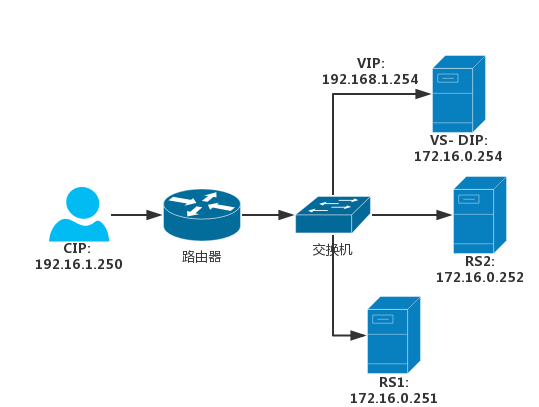
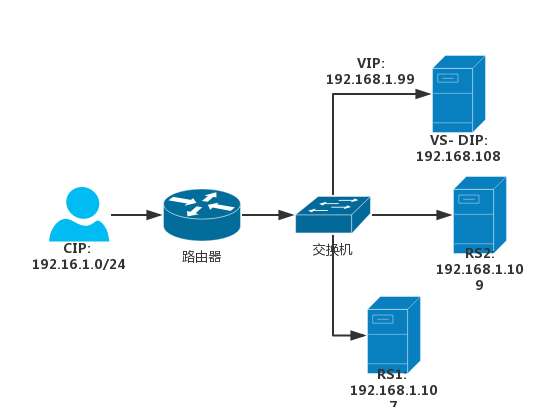
dr 模型搭建

diff --git a/27-LVS4层负载均衡/LVS4_DR模型.md b/27-LVS4层负载均衡/LVS4_DR模型.md
@@ -1,89 +1,69 @@
 # 27.5 LVS DR模型实战
-
+本节我们将搭建一个 LVS-DR 的负载均衡集群。
 ## 1. 网络拓扑结构
 ![web_fram](../images/27/lvs-dr-frame.png)
 
+拓扑结构说明:
+- VS， RS1， RS2 在虚拟机内均采用桥接方式，桥接到物理机的网卡上
+- VIP 配置在 DIP 所在网卡的别名上
+
 ## 2. lvs-dr 配置示例
-```bash
-# 1. 配置RS
-## 1. 设置 arp 内核参数
-echo 2 > /proc/sys/net/ipv4/conf/all/arp_announce # 最好将所有接口都配置
-echo 1 > /proc/sys/net/ipv4/conf/all/arp_ignore
-
-## 1.2 配置 vip 地址
-ifconfig lo:0  192.168.1.121/32 broadcast 192.168.1.121 up
-route add -host 192.168.1.121 dev lo:0 # 必须，以保证响应源 ip 为 vip
-
-# 2. 配置 director
-# 2.1 配置 vip
-ifconfig ens33:0 192.168.1.121/32 broadcast 192.168.1.121 up
-route add -host 192.168.1.121 dev ens33:0 # 非必须，保持和RS统一
-
-# 3. 添加 ipvs 规则
-ipvsadm -A -t 192.168.1.121 -s rr
-ipvsadm -a -t 192.168.1.121:80 -r 172.16.0.1 -g
-ipvsadm -a -t 192.168.1.121:80 -r 172.16.0.2 -g
-```
-
 ### 2.1 RS 配置脚本
 ```bash
 #!/bin/bash
-#
-vip=10.1.0.5
-mask='255.255.255.255'
+
+vip="192.168.1.99"
 
 case $1 in
 start)
-  echo 1 > /proc/sys/net/ipv4/conf/all/arp_ignore
-  echo 1 > /proc/sys/net/ipv4/conf/lo/arp_ignore
-  echo 2 > /proc/sys/net/ipv4/conf/all/arp_announce
-  echo 2 > /proc/sys/net/ipv4/conf/lo/arp_announce
-
-  ifconfig lo:0 $vip netmask $mask broadcast $vip up
-  route add -host $vip dev lo:0
-  ;;
+	echo 1 > /proc/sys/net/ipv4/conf/all/arp_ignore
+	echo 1 > /proc/sys/net/ipv4/conf/lo/arp_ignore
+	echo 2 > /proc/sys/net/ipv4/conf/all/arp_announce
+	echo 2 > /proc/sys/net/ipv4/conf/lo/arp_announce
+  iptables -F
+  ifconfig lo:0 $vip netmask 255.255.255.255 broadcast $vip up
+	route add -host $vip dev lo:0
+	;;
 stop)
-  ifconfig lo:0 down
-
-  echo 0 > /proc/sys/net/ipv4/conf/all/arp_ignore
-  echo 0 > /proc/sys/net/ipv4/conf/lo/arp_ignore
-  echo 0 > /proc/sys/net/ipv4/conf/all/arp_announce
-  echo 0 > /proc/sys/net/ipv4/conf/lo/arp_announce
-
-  ;;
+	ifconfig lo:0 down
+	echo 0 > /proc/sys/net/ipv4/conf/all/arp_ignore
+	echo 0 > /proc/sys/net/ipv4/conf/lo/arp_ignore
+	echo 0 > /proc/sys/net/ipv4/conf/all/arp_announce
+	echo 0 > /proc/sys/net/ipv4/conf/lo/arp_announce
+	;;
 *)
   echo "Usage $(basename $0) start|stop"
   exit 1
   ;;
 esac
+
+echo "/proc/sys/net/ipv4/conf/all/arp_ignore:"   `cat  /proc/sys/net/ipv4/conf/all/arp_ignore`
+echo "/proc/sys/net/ipv4/conf/lo/arp_ignore:"   `cat  /proc/sys/net/ipv4/conf/lo/arp_ignore`
+echo "/proc/sys/net/ipv4/conf/all/arp_announce:"   `cat  /proc/sys/net/ipv4/conf/all/arp_announce`
+echo "/proc/sys/net/ipv4/conf/lo/arp_announce:"   `cat  /proc/sys/net/ipv4/conf/all/arp_announce`
 ```
 
 ### 2.2 VS 配置脚本
 ```bash
 #!/bin/bash
-#
-vip='10.1.0.5'
-iface='eno16777736:0'
-mask='255.255.255.255'
-port='80'
-rs1='10.1.0.7'
-rs2='10.1.0.8'
-scheduler='wrr'
-type='-g'
+vip="192.168.1.99"
+ifc="enp0s3:0"
+port=80
+rs1="192.168.1.107"
+rs2="192.168.1.109"
 
 case $1 in
 start)
-  ifconfig $iface $vip netmask $mask broadcast $vip up
-  iptables -F
-
-  ipvsadm -A -t ${vip}:${port} -s $scheduler
-  ipvsadm -a -t ${vip}:${port} -r ${rs1} $type -w 1
-  ipvsadm -a -t ${vip}:${port} -r ${rs2} $type -w 1
-  ;;
+	ifconfig $ifc $vip netmask 255.255.255.255 broadcast $vip up
+	iptables -F
+	ipvsadm -A -t $vip:$port -s wrr
+	ipvsadm -a -t $vip:$port -r $rs1 -g -w 1 	
+	ipvsadm -a -t $vip:$port -r $rs2 -g -w 1
+	;;
 stop)
-  ipvsadm -C
-  ifconfig $iface down
-  ;;
+	ipvsadm -C
+	ifconfig $ifc down
+	;;
 *)
   echo "Usage $(basename $0) start|stop"
   exit 1

diff --git a/27-LVS4层负载均衡/LVS4_NAT模型.md b/27-LVS4层负载均衡/LVS4_NAT模型.md
@@ -1,5 +1,5 @@
 # 27.4 LVS nat模型实战
-本节我们就开始着手搭建一个 LVS-NAT 的负载均衡集群。
+本节我们将搭建一个 LVS-NAT 的负载均衡集群。
 
 ## 1. 网络拓扑结构
 ![web_fram](../images/27/LVS-NAT-FRAME.png)
